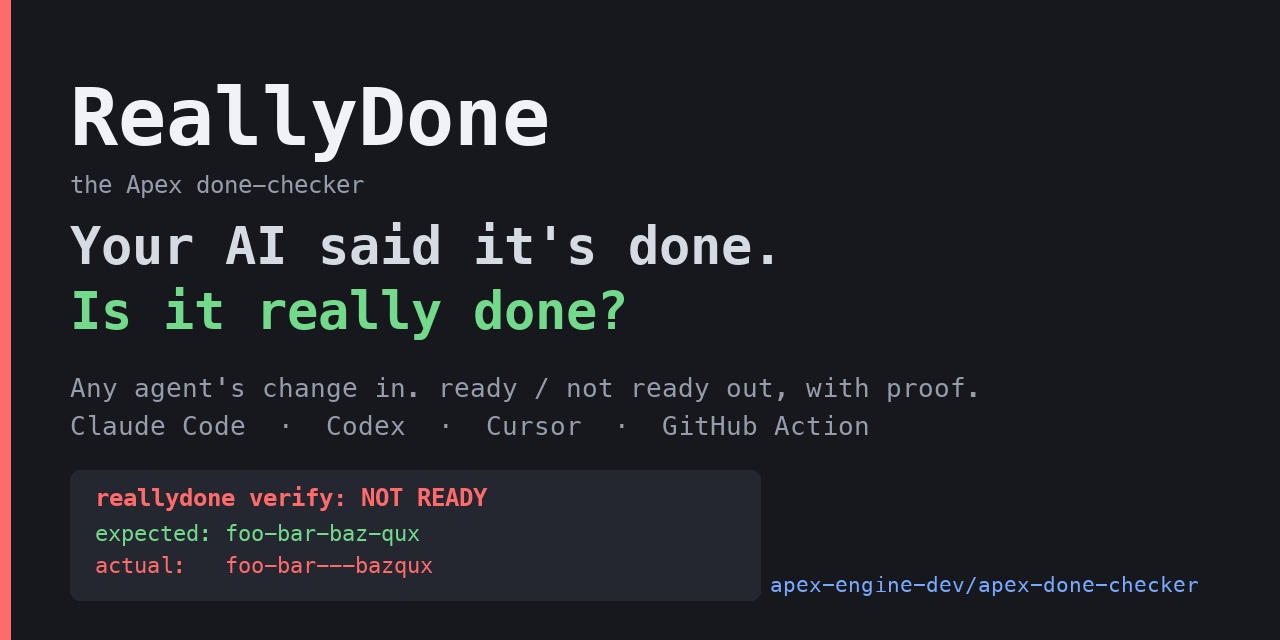
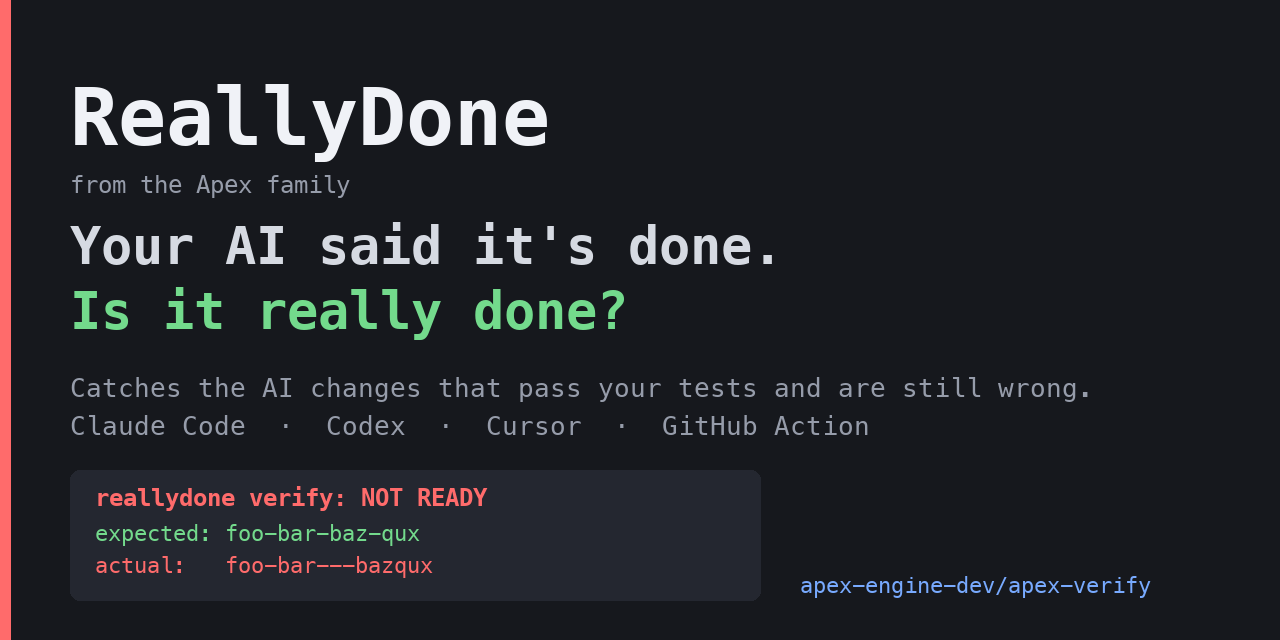
README in plain words with a results chart, What's left and a star/share call to action; repo is apex-verify

Changed region(s): [[0.0312, 0.5938, 0.8438, 0.625], [0.5938, 0.9062, 0.9375, 0.9375], [0.0625, 0.2812, 0.2812, 0.3125]]

diff --git a/packages/cli/src/report.ts b/packages/cli/src/report.ts
@@ -45,7 +45,7 @@ export function renderMarkdown(r: VerifyReport): string {
   if (r.verdict === "ready") out.push("The checks written from the task pass, the tests pass, and nothing was weakened.");
   out.push("", `| | |`, `|---|---|`, `| ${testsLine(r).split(": ")[0]} | ${testsLine(r).split(": ").slice(1).join(": ")} |`, `| checks | ${checksLine(r).replace(/^checks: /, "")} |`, `| change | ${plural(r.change.files.length, "file")} vs \`${r.change.base}\` |`);
   if (r.warnings.length) out.push("", ...r.warnings.map((w) => `> note: ${w}`));
-  out.push("", `<sub>${r.usage.seconds}s, ${plural(r.usage.modelCalls, "model call")} · proof \`${r.proof.slice(0, 19)}…\` · [ReallyDone](https://github.com/apex-engine-dev/apex-done-checker)</sub>`);
+  out.push("", `<sub>${r.usage.seconds}s, ${plural(r.usage.modelCalls, "model call")} · proof \`${r.proof.slice(0, 19)}…\` · [ReallyDone](https://github.com/apex-engine-dev/apex-verify)</sub>`);
   return out.join("\n");
 }
 
@@ -57,7 +57,7 @@ export function renderSarif(r: VerifyReport): string {
     locations: [{ physicalLocation: { artifactLocation: { uri: r.change.files[0]?.path ?? "." } } }],
   }));
   const rules = [...new Set(r.reasons.map((x) => x.kind))].map((k) => ({ id: `reallydone/${k}`, shortDescription: { text: k.replace(/_/g, " ") } }));
-  return JSON.stringify({ $schema: "https://json.schemastore.org/sarif-2.1.0.json", version: "2.1.0", runs: [{ tool: { driver: { name: "reallydone verify", informationUri: "https://github.com/apex-engine-dev/apex-done-checker", rules } }, results }] }, null, 2);
+  return JSON.stringify({ $schema: "https://json.schemastore.org/sarif-2.1.0.json", version: "2.1.0", runs: [{ tool: { driver: { name: "reallydone verify", informationUri: "https://github.com/apex-engine-dev/apex-verify", rules } }, results }] }, null, 2);
 }
 
 /** The exit codes: 0 ready, 1 not ready, 3 unknown (2 is a usage or setup error). */

diff --git a/README.md b/README.md
@@ -1,112 +1,130 @@
 <h1 align="center">ReallyDone</h1>
 <p align="center"><b>Your AI said it's done. Is it really done?</b></p>
-<p align="center"><sub>ReallyDone, the Apex done-checker</sub></p>
+<p align="center">Catch the AI code changes that pass your tests and are still wrong.<br><sub>Repository <code>apex-verify</code> · from the Apex family</sub></p>
 <p align="center">
-  <a href="https://github.com/apex-engine-dev/apex-done-checker/actions/workflows/ci.yml"><img alt="CI" src="https://github.com/apex-engine-dev/apex-done-checker/actions/workflows/ci.yml/badge.svg"></a>
+  <a href="https://github.com/apex-engine-dev/apex-verify/actions/workflows/ci.yml"><img alt="CI" src="https://github.com/apex-engine-dev/apex-verify/actions/workflows/ci.yml/badge.svg"></a>
   <a href="LICENSE"><img alt="License: Apache-2.0" src="https://img.shields.io/badge/license-Apache--2.0-blue.svg"></a>
   <img alt="Node 20+" src="https://img.shields.io/badge/node-%E2%89%A520-brightgreen.svg">
+  <a href="https://github.com/apex-engine-dev/apex-verify/stargazers"><img alt="Stars" src="https://img.shields.io/github/stars/apex-engine-dev/apex-verify?style=social"></a>
 </p>
 
-ReallyDone checks whether an AI agent's code change is **really done**. Give it the change and the task, and it answers `ready`, `not ready` or `unknown`, **with proof**, on a copy of your code, before you merge. Free. Works with Claude Code, Codex, Cursor, Aider, Copilot or a person: nothing to switch.
-
-**Measured:** on AI-written changes judged by hidden tests ReallyDone never saw, an independent checker model blocks **65% of the wrong changes** (28 of 43, across 17 small projects) and wrongly blocks **3% of the right ones**; on the 12 public projects you can rerun yourself it is **52%** (16 of 31) and 2% (1 of 48). Your tests plus a cheating scan alone block 8%. Two independent checkers that must both object keep 60% with only 2% false alarms. ([details and caveats](#how-good-is-it-measured-with-the-caveats))
-
-## See it
+AI coding agents say "done" when the tests pass. But the tests only check what somebody wrote down. **ReallyDone** takes the change an AI made and the task you gave it, has a *different* AI write the missing checks, and tells you `ready`, `not ready` or `unknown`, **with proof**, on a copy of your code, before you merge. Free, Apache-2.0, works with Claude Code, Codex, Cursor, Aider, Copilot or a person.
 
 <p align="center"><img src="docs/assets/demo.gif" alt="Terminal: the project's own test passes, then reallydone verify says NOT READY and names the failing checks with expected and actual values" width="760"></p>
 
-An AI was asked to fix a slug function: *"lowercase letters and digits separated by single dashes"*. It changed the code, the project's own test passes, and it said done. ([the example](examples/said-done); real runs, the exact wording of the checks varies from run to run)
+<p align="center"><b>The tests were green. ReallyDone found what they missed.</b></p>
 
-```text
-$ reallydone verify "$(cat task.txt)" --diff agent-change.diff
-reallydone verify: NOT READY
-
-  - 2 checks written from the task fail on the new code
-      check: collapses multiple separators into a single dash
-        expected: foo-bar-baz-qux
-        actual:   foo-bar---bazqux
-      check: trims leading and trailing separators
-        expected: hello-world
-        actual:   --hello-world
-      fix: Make the change satisfy the behaviour in the task; the failing check output shows what is expected.
-
-  tests: 1 passed, 0 failed
-  checks: 6 passed, 2 failed; written from the task by gemini-3.1-pro-preview; they fail on the old code
-  change: 1 file in the diff
-  sandbox: macOS Seatbelt (best effort)
-  19.9s, 2 model calls; proof sha256:fd915c61f591...  (--json for the full report)
-```
-
-The project's tests were green. A check written from the task by a *different* model, shown to fail on the old code, was not: the change leaves repeated separators as `---` and keeps leading ones.
-
-## Try it in 60 seconds
+## Try it in 30 seconds
 
 You need Node 20+, git, and an API key for the model that writes the checks (use a different, ideally stronger model than your agent).
 
 ```sh
 export GEMINI_API_KEY=...        # or OPENAI_API_KEY with --provider openai --model <id>
 cd your-project                  # a git repo where an AI just made a change
-npx --yes https://github.com/apex-engine-dev/apex-done-checker/releases/latest/download/reallydone.tgz verify "what you asked the AI to do"
+npx --yes https://github.com/apex-engine-dev/apex-verify/releases/latest/download/reallydone.tgz verify "what you asked the AI to do"
 ```
 
-The first run downloads a 48 KB file (a couple of seconds). Nothing in your project is changed. Prefer to build it yourself? `git clone https://github.com/apex-engine-dev/apex-done-checker && cd reallydone && npm install` (node dist/reallydone.mjs), or `npx github:apex-engine-dev/apex-done-checker`. You do not need npm to publish or install anything. Exit code `0` ready, `1` not ready, `3` unknown. No key? Add `--no-model`: your tests and a cheating scan still run, and the verdict is at most `unknown`.
+It downloads a 48 KB file (about 2 seconds), changes nothing in your project, and prints a verdict. No key? Add `--no-model` to run only your tests and the cheating scan (the verdict is then at most `unknown`).
+
+**Want to play first?** Run the built-in example, where an AI "fixed" a function and its own test passes:
+
+```sh
+git clone https://github.com/apex-engine-dev/apex-verify && cd apex-verify/examples/said-done
+npx --yes https://github.com/apex-engine-dev/apex-verify/releases/latest/download/reallydone.tgz verify "$(cat task.txt)" --dir project --diff agent-change.diff
+```
+
+## Why you might want it
+
+- **"The tests passed" is not "it works".** Agents skip, delete or never write the test that mattered. ReallyDone writes the missing checks from your task and shows each one can fail on the old code, so a check that proves nothing is thrown away.
+- **It stops the agent, not just you.** A Claude Code plugin blocks the agent from saying "done" until the change is ready, and a GitHub Action gives every pull request a verdict (handy against AI-generated pull requests).
+- **It says "I don't know" instead of guessing.** `unknown` is a real answer. You never get a silent pass.
+
+## Does it actually work? (in plain words)
+
+We collected AI-written changes to small projects and knew for sure which ones were wrong, because we wrote secret tests that ReallyDone never saw. A "wrong" change is one that looks fine and may pass the visible tests but does not do what the task asked.
+
+<p align="center"><img src="docs/assets/results.svg" alt="Out of 100 wrong AI changes, tests plus a cheating scan stop 8, ReallyDone stops 52 on the public projects and 65 across all 17 projects" width="720"></p>
+
+- **Your own tests (plus a scan for deleted or skipped tests) stop about 8 of every 100 wrong changes.**
+- **ReallyDone stops about 65** across all 17 projects (28 of 43 wrong changes), and **52** on the 12 public projects that you can rerun yourself (16 of 31).
+- **It wrongly stops about 3 of every 100 good changes** (2 of 65; 1 of 48 on the public projects).
+- **It still misses about a third** of the wrong changes. It is not a proof of correctness.
+- **Two checkers from different companies that must both object** stopped 60 of every 100 wrong changes while wrongly stopping only 2 of every 100 good ones. That is the next thing we are building ([issue #6](https://github.com/apex-engine-dev/apex-verify/issues/6)).
+
+Honest limits: these are small projects, the changes were written by Gemini models, the numbers come from one run each, and the exact percentages could move a lot with more data. Rerun it yourself with `node benchmark/run-gate.mjs`; the data, the method and the caveats are in [benchmark/](benchmark). **Please try to break it**: a `ready` that is wrong, or a `not ready` that is right, is the most useful bug report we can get.
 
 ## Use it where you work
 
 | You use | Add ReallyDone as | It stops "done"? | Status |
 |---|---|---|---|
 | **A terminal** | `reallydone verify "<task>"` | You read the verdict | **Tested in CI** |
-| **Pull requests (any agent, or people)** | the GitHub Action: `uses: apex-engine-dev/apex-done-checker@v1` | **Yes**, as a required check | **Tested on real PRs**; runs on this repo's own PRs |
-| **Claude Code** | `/plugin marketplace add apex-engine-dev/apex-done-checker` then `/plugin install reallydone@reallydone` | **Yes**: the Stop hook hands the failing check back and Claude keeps working | Hook protocol tested in CI, plugin validated; **not yet run in a live session** |
+| **Pull requests (any agent, or people)** | the GitHub Action: `uses: apex-engine-dev/apex-verify@v1` | **Yes**, as a required check | **Tested on real PRs**; runs on this repo's own PRs |
+| **Claude Code** | `/plugin marketplace add apex-engine-dev/apex-verify` then `/plugin install reallydone@reallydone` | **Yes**: the Stop hook hands the failing check back and Claude keeps working | Hook protocol tested in CI, plugin validated; **not yet run in a live session** ([#12](https://github.com/apex-engine-dev/apex-verify/issues/12)) |
 | **Any MCP client** | the `verify_change` tool | The agent asks | Protocol tested in CI; not with a real client |
-| **Codex CLI, Gemini CLI, Cursor** | a Stop hook and/or the MCP tool | Yes / partly | **Documented, not tested.** Tell us if it works |
+| **Codex CLI, Gemini CLI, Cursor** | a Stop hook and/or the MCP tool | Yes / partly | **Documented, not tested** ([#8](https://github.com/apex-engine-dev/apex-verify/issues/8)) |
 
 Copy-paste configs: [docs/INTEGRATIONS.md](docs/INTEGRATIONS.md). Exactly what is and is not tested: [docs/USE-CASES.md](docs/USE-CASES.md).
 
 ## How it decides
 
-1. **Builds the change on a copy** (from your git working copy, a branch, or a diff file). Your project is never touched.
+1. **Builds the change on a copy** (your git working copy, a branch, or a diff file). Your project is never touched.
 2. **Scans for cheating**: tests deleted, skipped, focused with `.only`, a test script that cannot fail, edits to the agent's own configuration.
-3. **Runs your tests** before and after: a test that passed before and fails now is a regression. If you have a type check (`typecheck` script, or `tsc` with a tsconfig), errors the change introduced count too: a dangling import can leave every test green and still break the build.
-4. **An independent model writes checks from your task**, never from the agent's own tests.
-5. **Proves the checks can fail**: they run on the old code first. A check that passes on the old code too proves nothing.
-6. **Runs them on the new code** and answers: `ready` (checks and tests pass, nothing weakened), `not ready` (a proven problem, with the failing check, expected vs actual, and a fix hint an agent can read), or `unknown` (not enough to say: no checks could be written, the checks cannot tell old from new, or a second look suggests the check itself is wrong). **Never a silent pass.**
-
-## How good is it? Measured, with the caveats
-
-Each change below is an AI-written diff labelled right or wrong by hidden tests that ReallyDone never sees. Everything is rerunnable: `node benchmark/run-gate.mjs` ([benchmark/](benchmark)).
-
-| What judged the change | Wrong changes blocked | Right changes wrongly blocked |
-|---|---|---|
-| Your tests + the cheating scan only (`--no-model`; 199 changes) | 5 of 65 (**8%**) | 2 of 134 (1%) |
-| **+ an independent checker model** (the default; 108 changes, 17 projects) | **28 of 43 (65%**, 95% CI 50-78%) | **2 of 65 (3%**, CI 1-11%) |
-| the same, only the 12 public projects (reproducible, 79 changes) | 16 of 31 (52%) | 1 of 48 (2%) |
-| Checker from a **different vendor** (Claude vs Gemini, one check set per task, no second look; 191 changes) | Claude 43 of 62 (69%), Gemini 38 of 62 (61%) | Claude 15 of 129 (12%), Gemini 24 of 129 (19%) |
-| **Two** independent checkers, block only when both object | 37 of 62 (60%) | **2 of 129 (2%)** |
-
-What this does **not** show: a first measurement on small, mostly single-file projects; the wrong changes come from weaker Gemini models; the default numbers use a Gemini checker (the second-vendor row used Claude as the checker, with different settings, so rows are not strictly comparable); one run per change; the intervals understate the real uncertainty because changes cluster by task. It misses about a third of the wrong changes. Asking the checker for unstated cases (line endings, empty input) gave no gain, so it is off. A weak model writing checks for its *own* change blocked over half of the correct ones (prototype), which is why the checker should be a different model. Method and limits: [benchmark/results](benchmark/results).
-
-Please try to break it: a `ready` that is wrong, or a `not ready` that is right, is the most useful bug report we can get.
+3. **Runs your tests** before and after: a test that passed before and fails now is a regression. A type check counts too if you have one.
+4. **A different model writes checks from your task**, never from the agent's own tests.
+5. **Proves each check can fail**: it runs on the old code first. A check that passes on the old code too proves nothing.
+6. **Runs the checks on the new code** and answers `ready`, `not ready` (the failing check, expected vs actual, and a fix hint an agent can read) or `unknown` (not enough to say). **Never a silent pass.**
 
 ## What ReallyDone will not do
 
-- **It is not a proof of correctness.** It raises the bar: checks from an independent model catch a lot that your tests miss, and it says `unknown` when it cannot tell. A check can be wrong in both directions; the numbers above are the honest rates.
-- **It does not replace review or CI.** It runs next to them and gives a reviewer (or an agent) a short, evidence-backed verdict.
-- **It sends your task and the relevant source files** (a budgeted excerpt, about 24 KB) to the checker model you configure, and nothing else. No telemetry, no other network calls.
-- **Generated checks and your tests run on your machine, sandboxed where we can:** macOS Seatbelt (best effort) and Linux bubblewrap (both tested in CI), no network except localhost. **Windows is not supported natively**: use WSL2 or the [container recipe](docs/SANDBOX.md). The sandbox is a safety net, not a security boundary: for code you do not trust, run ReallyDone in CI or a container.
-- **Checks are written for node:test and pytest** today. For other stacks ReallyDone still runs your tests (detected, or `--test "<cmd>"`) and the cheating scan, and says `unknown` instead of guessing; Jest/Vitest, Go and Rust are open issues. See [docs/USE-CASES.md](docs/USE-CASES.md).
+- **It is not a proof of correctness.** It raises the bar. A check can be wrong in both directions; the numbers above are the honest rates.
+- **It does not replace review or CI.** It runs next to them and gives a short, evidence-backed verdict.
+- **It sends your task and the relevant source files** (about 24 KB at most) to the checker model you configure, and nothing else. No telemetry.
+- **It runs checks and tests on your machine**, sandboxed where we can: macOS Seatbelt (best effort) and Linux bubblewrap, both tested in CI, with no network except localhost. **Windows is not supported natively** (use WSL2 or the [container recipe](docs/SANDBOX.md)). The sandbox is a safety net, not a security boundary.
+- **It writes checks for node:test and pytest today.** For other stacks it still runs your tests and the cheating scan and says `unknown` rather than guessing ([#1](https://github.com/apex-engine-dev/apex-verify/issues/1), [#2](https://github.com/apex-engine-dev/apex-verify/issues/2)).
+
+## What's left
+
+Honest list of what is not done yet, each with an issue you can pick up:
+
+| Not done yet | Issue |
+|---|---|
+| Checks for **Jest / Vitest** projects | [#1](https://github.com/apex-engine-dev/apex-verify/issues/1) (good first issue) |
+| Checks for **Go and Rust** | [#2](https://github.com/apex-engine-dev/apex-verify/issues/2) |
+| **Windows** support | [#9](https://github.com/apex-engine-dev/apex-verify/issues/9) |
+| Try the **Claude Code plugin** in a live session | [#12](https://github.com/apex-engine-dev/apex-verify/issues/12) (good first issue) |
+| Test the **Codex, Cursor, Gemini CLI** hooks | [#8](https://github.com/apex-engine-dev/apex-verify/issues/8) (good first issue) |
+| **Two checkers that must agree** (60% caught, 2% false alarms) | [#6](https://github.com/apex-engine-dev/apex-verify/issues/6) |
+| Measure with a **checker from another company** | [#5](https://github.com/apex-engine-dev/apex-verify/issues/5) |
+| Measure on **bigger, real projects** | [#13](https://github.com/apex-engine-dev/apex-verify/issues/13) |
+| Locked tests and **signed evidence** (so an agent cannot tamper with its own verdict) | [#7](https://github.com/apex-engine-dev/apex-verify/issues/7) |
+| A **"checked by ReallyDone" badge** for READMEs | [#14](https://github.com/apex-engine-dev/apex-verify/issues/14) |
+| Does telling the checker to avoid the task's own examples help? | [#4](https://github.com/apex-engine-dev/apex-verify/issues/4) |
 
 ## Questions you will have
 
-**Isn't this just CI?** CI runs the tests that exist. The pain is the change nobody wrote a test for, or the test the agent deleted or never ran. ReallyDone writes the missing checks from the task, proves they can fail, and flags tampering. It complements CI (run it *in* CI with the Action).
+**Isn't this just CI?** CI runs the tests that exist. The pain is the change nobody wrote a test for, or the test the agent deleted or never ran. ReallyDone writes the missing checks, proves they can fail, and flags tampering. Run it *in* CI with the Action.
 
-**What does it cost?** One model call per task to write the checks (cached while an agent retries the same task on the same code), plus a short second look when a check fails. Typically seconds and cents. Your tests run locally.
+**What does it cost?** One model call per task to write the checks (reused while an agent retries the same task), plus a short second look when a check fails. Seconds and cents. Your tests run locally.
 
-**What if the checker is wrong?** Then you get `not ready` on a correct change (a false alarm) or `ready` on a wrong one (a miss). We measure both and print them above. The second look turns a suspect check into `unknown` instead of a block, the agent hook never blocks more than 3 times, and `REALLYDONE_MODE=warn` never blocks.
+**What if the checker is wrong?** Then you get `not ready` on a good change or `ready` on a wrong one. We measure both and show them above. The second look turns a suspect check into `unknown`, the agent hook never blocks more than 3 times, and `REALLYDONE_MODE=warn` never blocks.
 
-**Why a different model?** A model grading its own work shares its blind spots: in our runs a weak model writing checks for its own change blocked over half of the correct changes. Use another model, ideally a stronger one.
+**Why a different model?** A model grading its own work shares its blind spots: in our runs a weak model writing checks for its own change blocked over half of the good changes.
 
-## What is in this repository
+## Help it spread
+
+If ReallyDone catches something for you, a ⭐ helps other developers find it, and telling one teammate who uses Claude Code, Codex or Cursor does more than any ad. If it gets something wrong, [tell us](https://github.com/apex-engine-dev/apex-verify/issues/new/choose): we will add your case to the benchmark and credit you.
+
+| You can | Where |
+|---|---|
+| **Break it**: find a wrong change it calls `ready`, or a good one it blocks | [new issue](https://github.com/apex-engine-dev/apex-verify/issues/new/choose) |
+| **Try it on your real project** and tell us if it worked in five minutes | [issue #3](https://github.com/apex-engine-dev/apex-verify/issues/3) |
+| **Add a language or test runner** | issues labelled `good first issue` |
+| **Be a second maintainer** | [GOVERNANCE.md](GOVERNANCE.md) |
+
+There is currently **one maintainer**; expect replies in days, not hours.
+
+<details>
+<summary><b>What is in this repository</b></summary>
 
 - **[`packages/cli`](packages/cli)**: `reallydone verify`, the stop hook, the MCP server, the output formats.
 - **[`packages/engine`](packages/engine)**: the verification engine it uses (writes and runs the checks, runs your tests, the sandbox). It is shared with a separate commercial product, so it contains more than `verify` uses; see [docs/ARCHITECTURE.md](docs/ARCHITECTURE.md).
@@ -114,18 +132,9 @@ Please try to break it: a `ready` that is wrong, or a `not ready` that is right,
 - **`action.yml`, [`integrations/`](integrations), [`.claude-plugin/`](.claude-plugin), [`docker/`](docker)**: the GitHub Action, the Claude Code plugin, the container recipe.
 - **[`docs/`](docs)**: [integrations](docs/INTEGRATIONS.md), [what works and how we know](docs/USE-CASES.md), [sandbox](docs/SANDBOX.md), [related work](docs/RELATED-WORK.md), [experiments including failures](docs/EXPERIMENTS.md), and an earlier [research track on weaker models](docs/research/WEAK-MODELS.md).
 
-## Join in
+[Contributing](CONTRIBUTING.md) · [Roadmap](ROADMAP.md) · [Security](SECURITY.md) · [Status](docs/STATUS.md) · [Changelog](CHANGELOG.md)
 
-| You can | Where |
-|---|---|
-| Break it: find a wrong change ReallyDone calls `ready`, or a correct one it blocks | [New issue: false ready / false alarm](https://github.com/apex-engine-dev/apex-done-checker/issues/new/choose) |
-| Add a language or test runner (Jest/Vitest, Go, Rust, Java, ...) | issues labelled `good first issue` |
-| Try it on your real project and tell us if it worked in five minutes | any issue or discussion |
-| Be a second maintainer | [GOVERNANCE.md](GOVERNANCE.md) |
-
-[What works](docs/USE-CASES.md) · [Related work](docs/RELATED-WORK.md) · [Contributing](CONTRIBUTING.md) · [Roadmap](ROADMAP.md) · [Security](SECURITY.md) · [Status](docs/STATUS.md) · [Experiments, including failures](docs/EXPERIMENTS.md) · [Changelog](CHANGELOG.md)
-
-There is currently **one maintainer**; expect replies in days, not hours.
+</details>
 
 ## Licence
 

diff --git a/docs/INTEGRATIONS.md b/docs/INTEGRATIONS.md
@@ -4,7 +4,7 @@ ReallyDone does not replace your agent. It checks what the agent changed. Pick t
 
 | Where | How | Can it stop the agent from saying "done"? |
 |---|---|---|
-| **Any terminal** | `npx --yes https://github.com/apex-engine-dev/apex-done-checker/releases/latest/download/reallydone.tgz verify "what the change should do"` | You read the verdict. Exit code 0 ready, 1 not ready, 3 unknown. |
+| **Any terminal** | `npx --yes https://github.com/apex-engine-dev/apex-verify/releases/latest/download/reallydone.tgz verify "what the change should do"` | You read the verdict. Exit code 0 ready, 1 not ready, 3 unknown. |
 | **Claude Code** | the ReallyDone plugin (below): a Stop hook, a skill and an MCP tool | **Yes.** The hook hands the reasons back and Claude keeps working. |
 | **Codex CLI** | a Stop hook and/or the MCP tool (below) | **Yes**, same mechanism. |
 | **Gemini CLI** | an `AfterAgent` hook and/or the MCP tool | Yes (retry on the verdict). |
@@ -23,7 +23,7 @@ Install is only ever one of: the command above, `claude plugin ...`, or a workfl
 ## Claude Code
 
 ```
-/plugin marketplace add apex-engine-dev/apex-done-checker
+/plugin marketplace add apex-engine-dev/apex-verify
 /plugin install reallydone@reallydone
 ```
 
@@ -38,7 +38,7 @@ Set `GEMINI_API_KEY` (or `OPENAI_API_KEY` and `REALLYDONE_CHECKER_MODEL`) in the
 Manual hook instead of the plugin (`.claude/settings.json`):
 
 ```json
-{ "hooks": { "Stop": [ { "hooks": [ { "type": "command", "command": "npx --yes https://github.com/apex-engine-dev/apex-done-checker/releases/latest/download/reallydone.tgz verify --hook", "timeout": 300 } ] } ] } }
+{ "hooks": { "Stop": [ { "hooks": [ { "type": "command", "command": "npx --yes https://github.com/apex-engine-dev/apex-verify/releases/latest/download/reallydone.tgz verify --hook", "timeout": 300 } ] } ] } }
 ```
 
 ## Codex CLI
@@ -46,15 +46,15 @@ Manual hook instead of the plugin (`.claude/settings.json`):
 Codex supports the same Stop hook contract. In `~/.codex/hooks.json` (or `.codex/hooks.json` in a trusted project):
 
 ```json
-{ "hooks": { "Stop": [ { "hooks": [ { "type": "command", "command": "npx --yes https://github.com/apex-engine-dev/apex-done-checker/releases/latest/download/reallydone.tgz verify --hook", "timeout": 300 } ] } ] } }
+{ "hooks": { "Stop": [ { "hooks": [ { "type": "command", "command": "npx --yes https://github.com/apex-engine-dev/apex-verify/releases/latest/download/reallydone.tgz verify --hook", "timeout": 300 } ] } ] } }
 ```
 
-MCP tool: `codex mcp add reallydone -- npx --yes https://github.com/apex-engine-dev/apex-done-checker/releases/latest/download/reallydone.tgz verify --mcp`
+MCP tool: `codex mcp add reallydone -- npx --yes https://github.com/apex-engine-dev/apex-verify/releases/latest/download/reallydone.tgz verify --mcp`
 
 ## Any MCP client (Cursor, Gemini CLI, Claude Desktop, ...)
 
 ```json
-{ "mcpServers": { "reallydone": { "command": "npx", "args": ["--yes", "https://github.com/apex-engine-dev/apex-done-checker/releases/latest/download/reallydone.tgz", "verify", "--mcp"] } } }
+{ "mcpServers": { "reallydone": { "command": "npx", "args": ["--yes", "https://github.com/apex-engine-dev/apex-verify/releases/latest/download/reallydone.tgz", "verify", "--mcp"] } } }
 ```
 
 The tool is `verify_change(task, dir?, base?)`. Add a line to your `AGENTS.md` / `CLAUDE.md` so the agent uses it: *"Before you say a task is done, call verify_change with the user's request. Never claim success on NOT READY or UNKNOWN."* (A rule file only asks; the Stop hook enforces.)
@@ -71,7 +71,7 @@ jobs:
     steps:
       - uses: actions/checkout@v4
         with: { fetch-depth: 0 }
-      - uses: apex-engine-dev/apex-done-checker@v1
+      - uses: apex-engine-dev/apex-verify@v1
         with:
           api-key: ${{ secrets.GEMINI_API_KEY }}
 ```

diff --git a/SECURITY.md b/SECURITY.md
@@ -1,6 +1,6 @@
 # Security
 
-The engine runs model-written code (tests and checks) on a copy of your project. **Isolation is limited:** on macOS the test run uses a Seatbelt sandbox profile that is best effort, not a security boundary (open reads, only credential folders denied, no outbound network except localhost). On Linux there is no sandbox: that code runs as you with a scrubbed environment (variables that look like keys, tokens, passwords are removed). Run the engine in a container or a throwaway checkout for projects you do not trust. The CLI prints which mode is active. Report privately, not in a public issue: https://github.com/apex-engine-dev/apex-done-checker/security/advisories/new
+The engine runs model-written code (tests and checks) on a copy of your project. **Isolation is limited:** on macOS the test run uses a Seatbelt sandbox profile that is best effort, not a security boundary (open reads, only credential folders denied, no outbound network except localhost). On Linux there is no sandbox: that code runs as you with a scrubbed environment (variables that look like keys, tokens, passwords are removed). Run the engine in a container or a throwaway checkout for projects you do not trust. The CLI prints which mode is active. Report privately, not in a public issue: https://github.com/apex-engine-dev/apex-verify/security/advisories/new
 
 In scope: a sandbox escape in the test runner, a write outside the project copy, leaking files the project asked to hide into a prompt, secrets in output, a profile or task that executes code at validation time, a validator bypass.
 Out of scope: the model producing bad code (that is what the proof is for).

diff --git a/docs/USE-CASES.md b/docs/USE-CASES.md
@@ -16,7 +16,7 @@ Every use case the README claims, how it is tested, and its honest status. If a 
 | MCP server (`verify_change`) | Protocol **tested in CI**; **not tested with a real MCP client** | `e2e.test.ts` (initialize, tools/list, tools/call over stdio) |
 | GitHub Action: comment updated in place, job summary, fail-on policy, fork PRs without a model | **Tested on real pull requests** (and runs on every PR to this repository) | the `ReallyDone verify` workflow; two throwaway PRs found and fixed one bug |
 | Codex CLI, Gemini CLI, Cursor hooks and MCP | **Documented, not tested** | `docs/INTEGRATIONS.md` has the configuration; please try one and tell us |
-| Install with `npx --yes https://github.com/apex-engine-dev/apex-done-checker/releases/latest/download/reallydone.tgz` | **Tested by hand** from a clean folder; the bundled file is used by CI | run the commands in the README |
+| Install with `npx --yes https://github.com/apex-engine-dev/apex-verify/releases/latest/download/reallydone.tgz` | **Tested by hand** from a clean folder; the bundled file is used by CI | run the commands in the README |
 | Languages: your tests run for what is detected (npm/node, pytest, go, cargo, make) or `--test "<cmd>"` | Node and Python **tested**; Go, Rust, others **detected but not tested by us** | `engine/src/runner-detect.test.ts`, `test-runner.test.ts` |
 | Checks *written* by the model | **node:test and pytest only**; other stacks give `unknown`, never a wrong `ready` | `proof-gate.ts`; Jest/Vitest, Go, Rust are open issues |
 | Sandbox: macOS Seatbelt | **Tested in CI** (macOS job) | `engine` tests |

diff --git a/benchmark/results/verify-gate-round1/README.md b/benchmark/results/verify-gate-round1/README.md
@@ -19,4 +19,4 @@
 
 **Reading it.** The independent checker is what moves the number: from 8% to 65% of wrong changes caught, for a small false-alarm rate. The unstated-cases hint did not help (within noise), so it is off by default (`--standard-cases`).
 
-**Limits.** Small, mostly single-file projects; the right/wrong labels are our hidden tests, which cover the behaviour the task states; the changes come from weaker Gemini models, and the checker is another Gemini model (not another vendor); one run per change; the sample is balanced per task, so "81% of READY verdicts were right" depends on the mix (here 60% of changes were right). This is a first measurement, not a guarantee; please break it ([new issue](https://github.com/apex-engine-dev/apex-done-checker/issues/new/choose)).
+**Limits.** Small, mostly single-file projects; the right/wrong labels are our hidden tests, which cover the behaviour the task states; the changes come from weaker Gemini models, and the checker is another Gemini model (not another vendor); one run per change; the sample is balanced per task, so "81% of READY verdicts were right" depends on the mix (here 60% of changes were right). This is a first measurement, not a guarantee; please break it ([new issue](https://github.com/apex-engine-dev/apex-verify/issues/new/choose)).

diff --git a/docs/STATUS.md b/docs/STATUS.md
@@ -13,6 +13,6 @@ Honest state of the project. Updated with every release.
 | Engine (`reallydone-engine`) | Extracted from Apex Capsule IDE, a separate commercial product that depends on it. Tests green on Node 20 and 22. |
 | Languages | node:test and pytest checks; your own `--test` command for anything else. |
 | Sandbox | macOS Seatbelt and Linux bubblewrap, both tested in CI (best effort, not a security boundary); a container recipe tested in CI. Windows: not supported natively (WSL2 or the container). |
-| Install | A 48 KB file attached to every release (`npx --yes https://github.com/apex-engine-dev/apex-done-checker/releases/latest/download/reallydone.tgz verify ...`), or clone and build. Not published to npm, and does not need to be. |
+| Install | A 48 KB file attached to every release (`npx --yes https://github.com/apex-engine-dev/apex-verify/releases/latest/download/reallydone.tgz verify ...`), or clone and build. Not published to npm, and does not need to be. |
 | Licence | Apache-2.0; trademark policy in TRADEMARKS.md. |
 | Maintainers | One. A second is the most useful contribution of all. |

diff --git a/CONTRIBUTING.md b/CONTRIBUTING.md
@@ -15,7 +15,7 @@ npm test
 
 ## Ways to help
 
-- **Break it.** Find a change `reallydone verify` calls `ready` that is wrong, or blocks one that is right ([issue templates](https://github.com/apex-engine-dev/apex-done-checker/issues/new/choose)). Add it to `benchmark/` as a labelled change if you can.
+- **Break it.** Find a change `reallydone verify` calls `ready` that is wrong, or blocks one that is right ([issue templates](https://github.com/apex-engine-dev/apex-verify/issues/new/choose)). Add it to `benchmark/` as a labelled change if you can.
 - **Languages and test runners:** write checks for Jest/Vitest, Go, Rust (today: node:test and pytest); better detection of a project's own tests. See issues labelled `good first issue`.
 - **Integrations:** try the Codex, Cursor or Gemini CLI hook or an MCP client and fix the documented configuration ([docs/INTEGRATIONS.md](docs/INTEGRATIONS.md)). Windows support.
 - **Measurements:** a checker from another vendor, bigger real projects, more labelled changes (`benchmark/README.md`).

diff --git a/packages/cli/README.md b/packages/cli/README.md
@@ -13,6 +13,6 @@ reallydone verify --mcp                         # as an MCP server (tool: verify
 
 Exit codes: `0` ready, `1` not ready, `3` unknown, `2` usage or setup error. `reallydone --help` lists every flag; environment equivalents for hooks and CI: `REALLYDONE_CHECKER_MODEL`, `REALLYDONE_PROVIDER`, `REALLYDONE_BASE_URL`, `REALLYDONE_API_KEY_ENV`, `REALLYDONE_MODE=warn`.
 
-Install without npm: `npx --yes https://github.com/apex-engine-dev/apex-done-checker/releases/latest/download/reallydone.tgz verify "<task>"`. As a library: `import { verify } from "reallydone-cli"` (see `src/index.ts`).
+Install without npm: `npx --yes https://github.com/apex-engine-dev/apex-verify/releases/latest/download/reallydone.tgz verify "<task>"`. As a library: `import { verify } from "reallydone-cli"` (see `src/index.ts`).
 
 Files: `verify.ts` (the gate), `cheats.ts` (the scan), `report.ts` (formats), `verify-cmd.ts` (arguments), `hook.ts`, `mcp.ts`, `providers.ts`, `openai-client.ts`. End-to-end tests: `e2e.test.ts`.

diff --git a/examples/said-done/README.md b/examples/said-done/README.md
@@ -5,7 +5,7 @@ An AI was asked (see `task.txt`) to fix a slug function so it returns *lowercase
 ```sh
 export GEMINI_API_KEY=...
 cd examples/said-done
-npx --yes https://github.com/apex-engine-dev/apex-done-checker/releases/latest/download/reallydone.tgz verify "$(cat task.txt)" --dir project --diff agent-change.diff
+npx --yes https://github.com/apex-engine-dev/apex-verify/releases/latest/download/reallydone.tgz verify "$(cat task.txt)" --dir project --diff agent-change.diff
 ```
 
 Expected: `NOT READY`, naming the failing check with expected and actual values (the wording of the checks varies run to run, the verdict was `not ready` in every one of our runs on this example). Without a key, `--no-model` gives `UNKNOWN`: the tests pass and nothing was tampered with, but nothing proves the change does what the task says. That gap is what ReallyDone is for.

diff --git a/integrations/claude-code/skills/verify-change/SKILL.md b/integrations/claude-code/skills/verify-change/SKILL.md
@@ -14,4 +14,4 @@ When you have finished a code change, do not just say it is done. Check it:
    - **UNKNOWN**: say plainly that the change could not be independently checked and why; do not describe it as verified.
 3. Never claim success on a NOT READY or UNKNOWN verdict.
 
-If the tool is unavailable, run `npx --yes https://github.com/apex-engine-dev/apex-done-checker/releases/latest/download/reallydone.tgz verify "<the user's request>"` in the project folder and read its output the same way.
+If the tool is unavailable, run `npx --yes https://github.com/apex-engine-dev/apex-verify/releases/latest/download/reallydone.tgz verify "<the user's request>"` in the project folder and read its output the same way.
